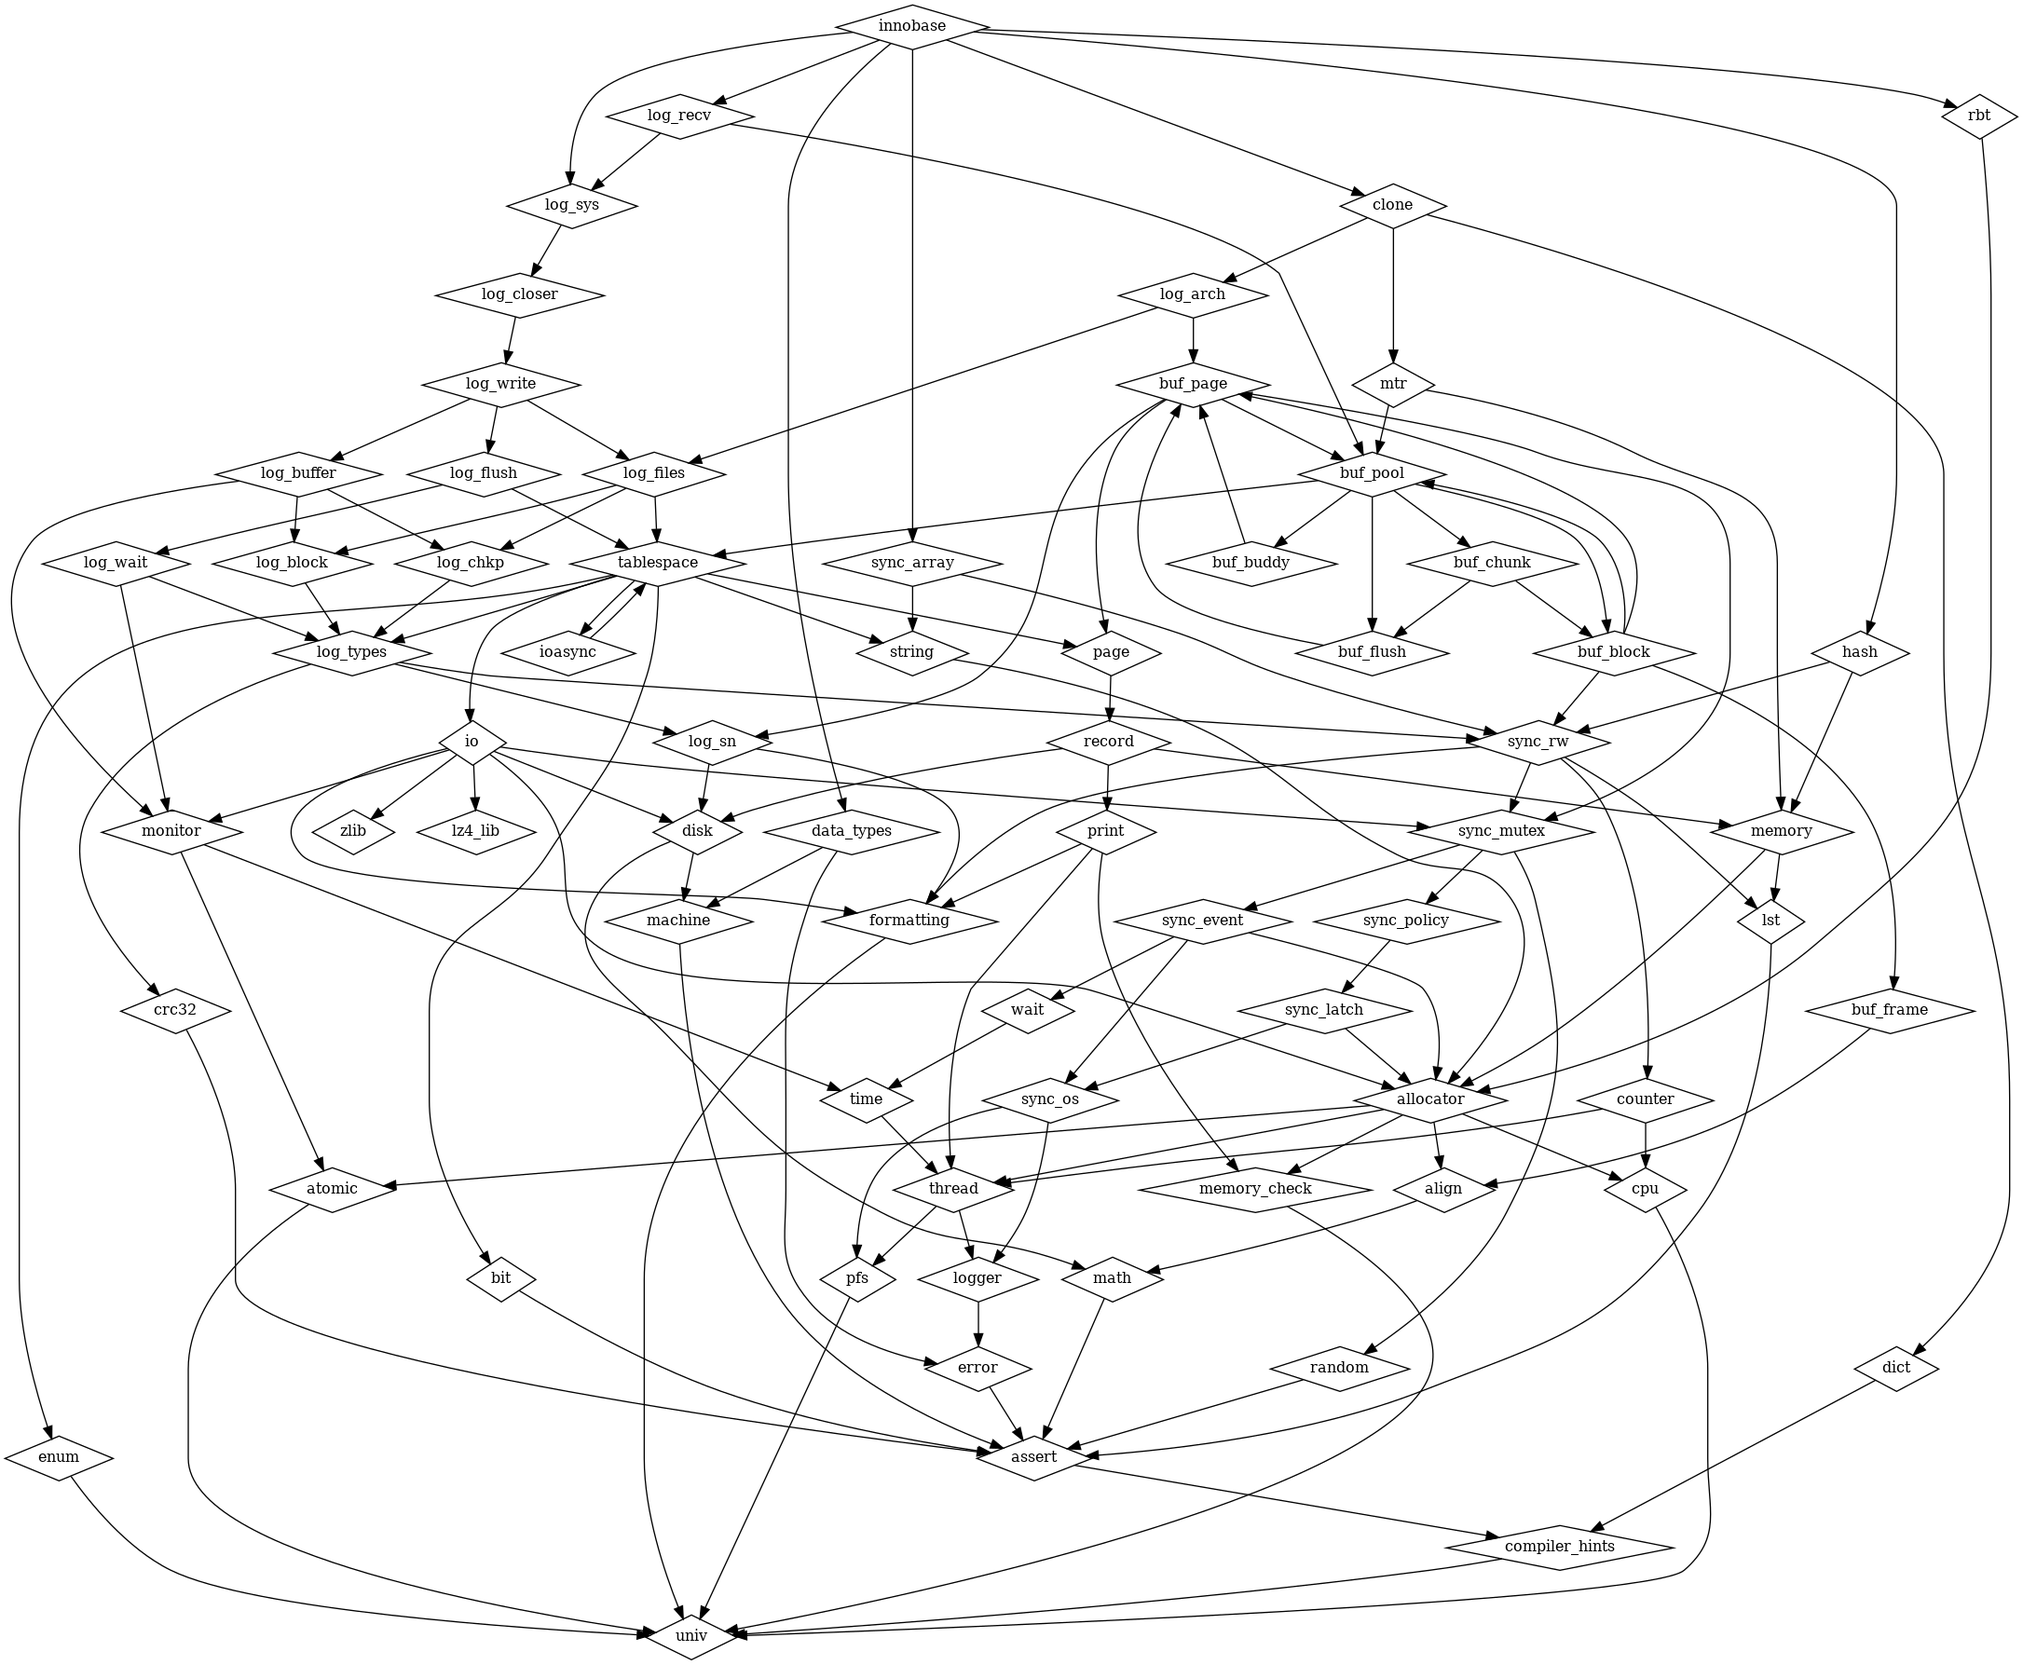
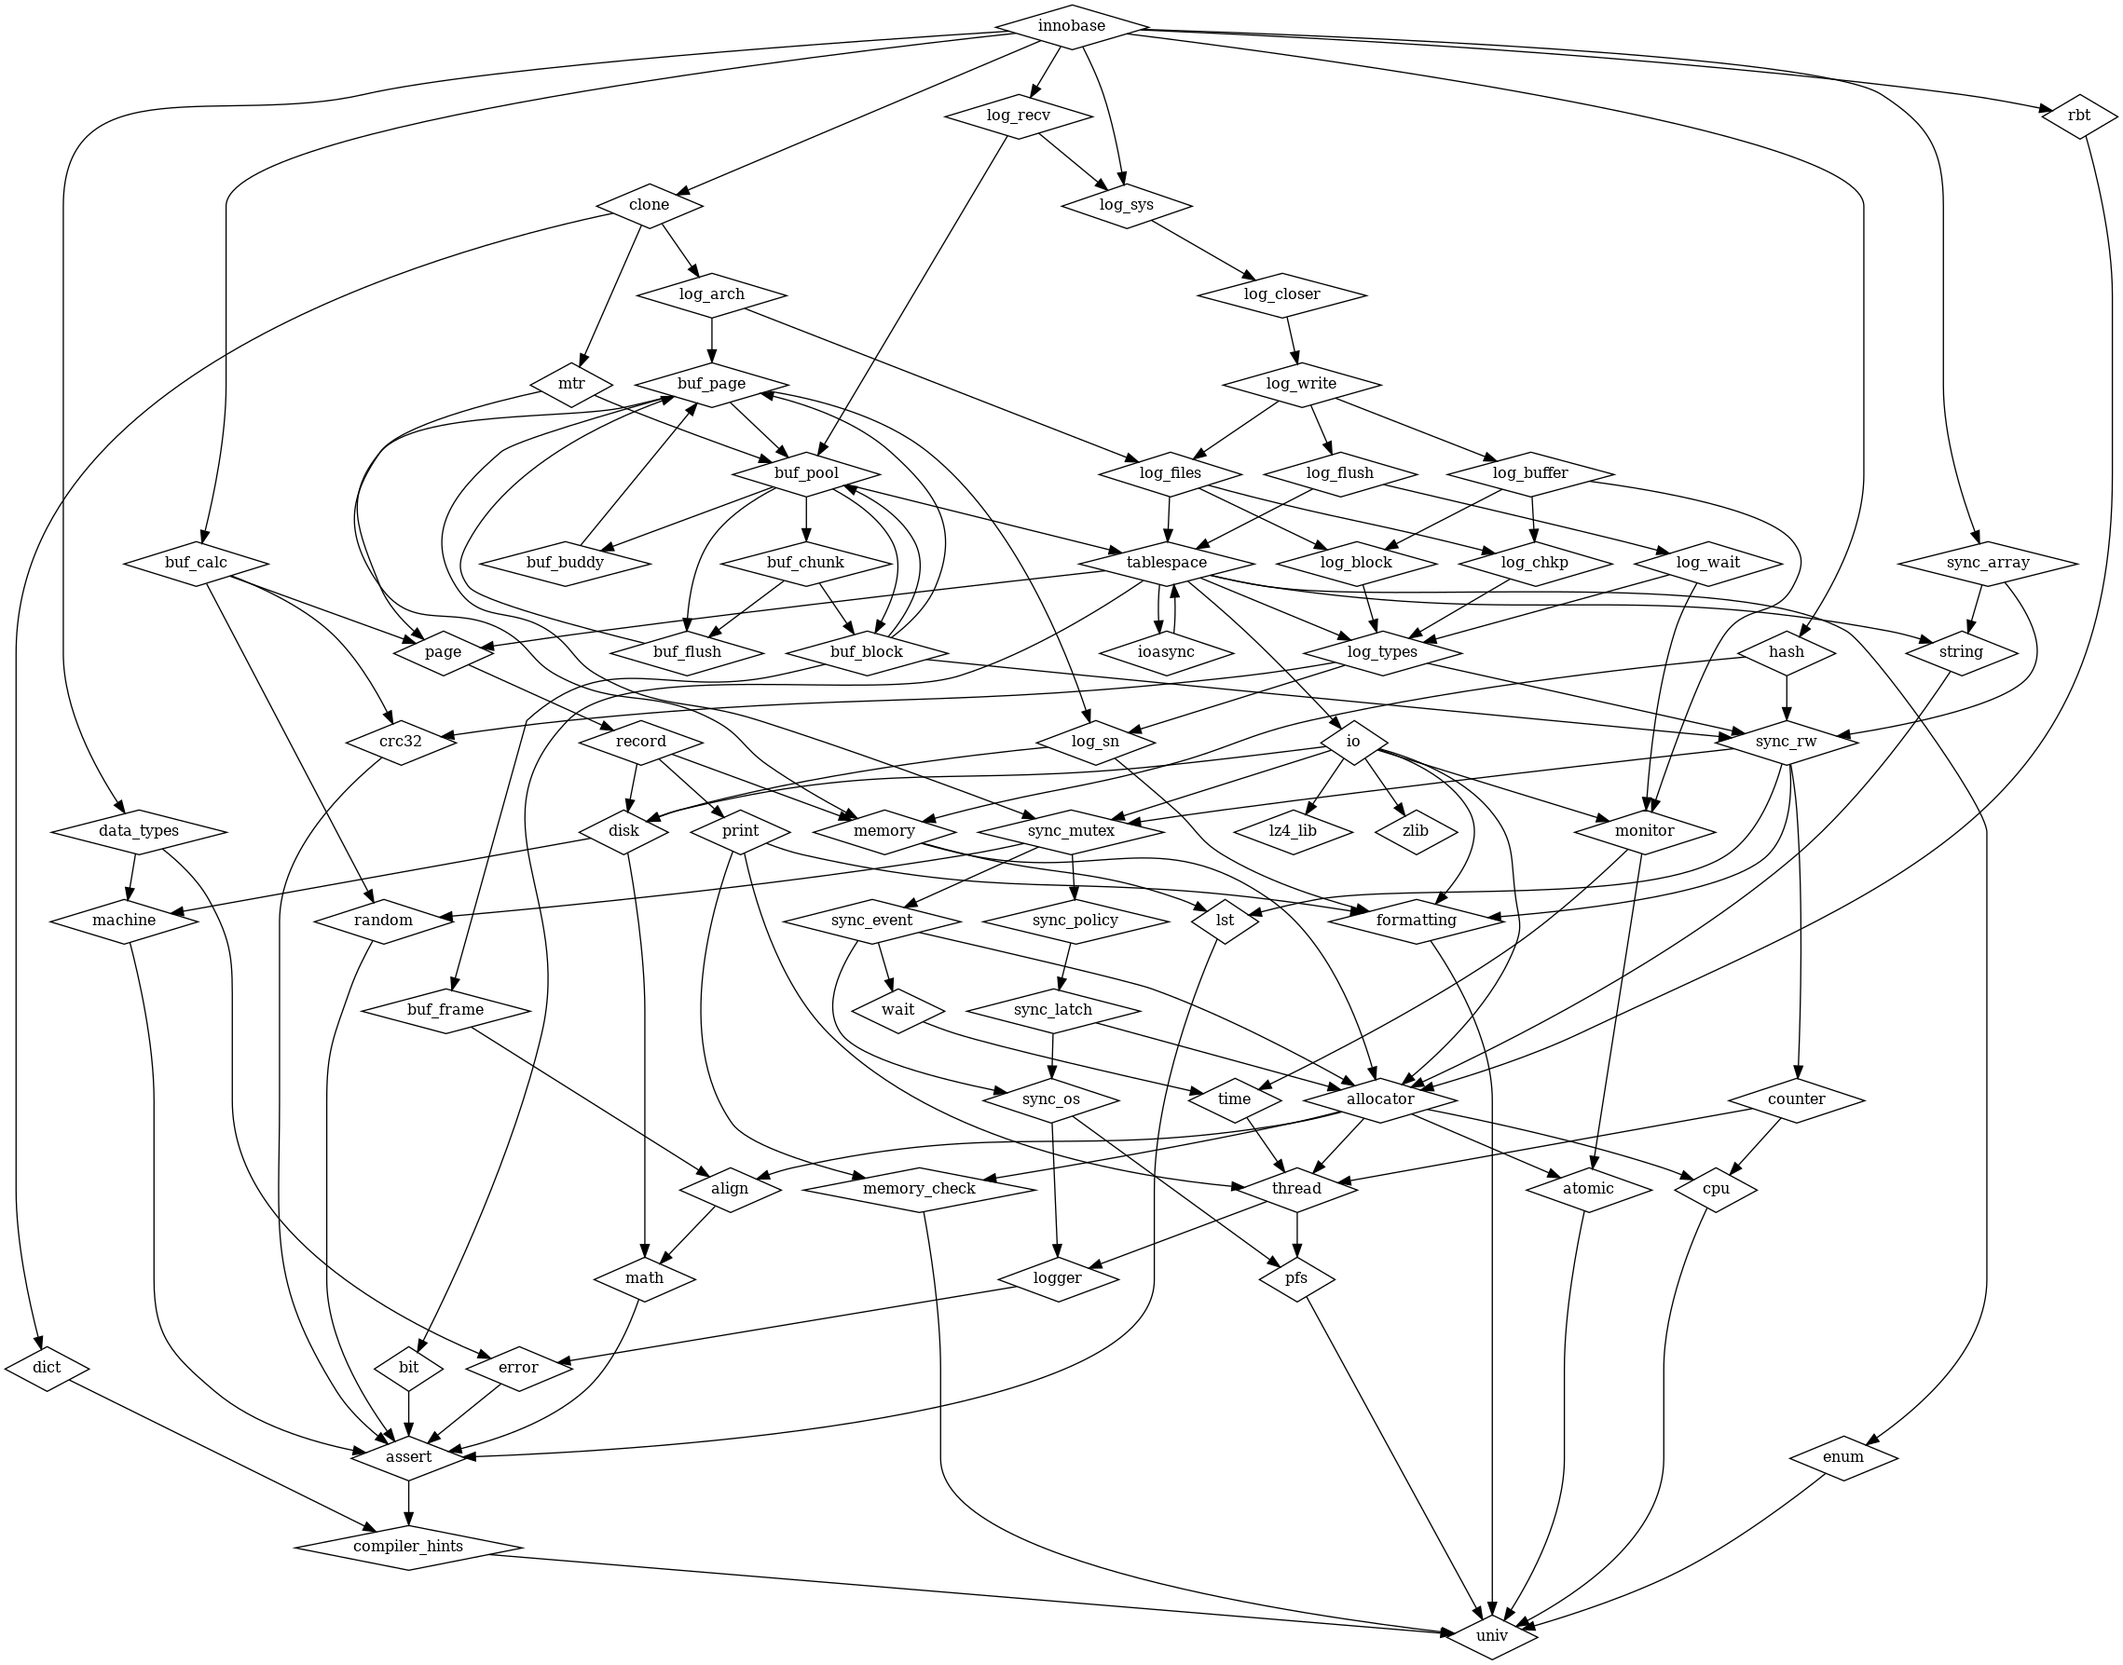
Create buf_calc library

diff --git a/storage/innobase/buf/checksum.cc b/storage/innobase/buf/checksum.cc
@@ -52,90 +52,14 @@ this program; if not, write to the Free Software Foundation, Inc.,
 
 #include "log0log.h"
 
-/** the macro MYSQL_SYSVAR_ENUM() requires "long unsigned int" and if we
-use srv_checksum_algorithm_t here then we get a compiler error:
-ha_innodb.cc:12251: error: cannot convert 'srv_checksum_algorithm_t*' to
-  'long unsigned int*' in initialization */
-ulong srv_checksum_algorithm = SRV_CHECKSUM_ALGORITHM_INNODB;
+
 
 /** set if we have found pages matching legacy big endian checksum */
 static bool legacy_big_endian_checksum = false;
 
-/** Calculates the CRC32 checksum of a page. The value is stored to the page
-when it is written to a file and also checked for a match when reading from
-the file. When reading we allow both normal CRC32 and CRC-legacy-big-endian
-variants. Note that we must be careful to calculate the same value on 32-bit
-and 64-bit architectures.
-@param[in]	page			buffer page (UNIV_PAGE_SIZE bytes)
-@param[in]	use_legacy_big_endian	if true then use big endian
-byteorder when converting byte strings to integers
-@return checksum */
-uint32_t buf_calc_page_crc32(const byte *page,
-                             bool use_legacy_big_endian /* = false */) {
-  /* Since the field FIL_PAGE_FILE_FLUSH_LSN, and in versions <= 4.1.x
-  FIL_PAGE_ARCH_LOG_NO_OR_SPACE_ID, are written outside the buffer pool
-  to the first pages of data files, we have to skip them in the page
-  checksum calculation.
-  We must also skip the field FIL_PAGE_SPACE_OR_CHKSUM where the
-  checksum is stored, and also the last 8 bytes of page because
-  there we store the old formula checksum. */
 
-  ut_crc32_func_t crc32_func =
-      use_legacy_big_endian ? ut_crc32_legacy_big_endian : ut_crc32;
 
-  const uint32_t c1 = crc32_func(page + FIL_PAGE_OFFSET,
-                                 FIL_PAGE_FILE_FLUSH_LSN - FIL_PAGE_OFFSET);
 
-  const uint32_t c2 =
-      crc32_func(page + FIL_PAGE_DATA,
-                 UNIV_PAGE_SIZE - FIL_PAGE_DATA - FIL_PAGE_END_LSN_OLD_CHKSUM);
-
-  return (c1 ^ c2);
-}
-
-/** Calculates a page checksum which is stored to the page when it is written
- to a file. Note that we must be careful to calculate the same value on
- 32-bit and 64-bit architectures.
- @return checksum */
-ulint buf_calc_page_new_checksum(const byte *page) /*!< in: buffer page */
-{
-  ulint checksum;
-
-  /* Since the field FIL_PAGE_FILE_FLUSH_LSN, and in versions <= 4.1.x
-  FIL_PAGE_ARCH_LOG_NO_OR_SPACE_ID, are written outside the buffer pool
-  to the first pages of data files, we have to skip them in the page
-  checksum calculation.
-  We must also skip the field FIL_PAGE_SPACE_OR_CHKSUM where the
-  checksum is stored, and also the last 8 bytes of page because
-  there we store the old formula checksum. */
-
-  checksum =
-      ut_fold_binary(page + FIL_PAGE_OFFSET,
-                     FIL_PAGE_FILE_FLUSH_LSN - FIL_PAGE_OFFSET) +
-      ut_fold_binary(page + FIL_PAGE_DATA, UNIV_PAGE_SIZE - FIL_PAGE_DATA -
-                                               FIL_PAGE_END_LSN_OLD_CHKSUM);
-  checksum = checksum & 0xFFFFFFFFUL;
-
-  return (checksum);
-}
-
-/** In versions < 4.0.14 and < 4.1.1 there was a bug that the checksum only
- looked at the first few bytes of the page. This calculates that old
- checksum.
- NOTE: we must first store the new formula checksum to
- FIL_PAGE_SPACE_OR_CHKSUM before calculating and storing this old checksum
- because this takes that field as an input!
- @return checksum */
-ulint buf_calc_page_old_checksum(const byte *page) /*!< in: buffer page */
-{
-  ulint checksum;
-
-  checksum = ut_fold_binary(page, FIL_PAGE_FILE_FLUSH_LSN);
-
-  checksum = checksum & 0xFFFFFFFFUL;
-
-  return (checksum);
-}
 
 /** Return a printable string describing the checksum algorithm.
  @return algorithm name */

diff --git a/storage/innobase/include/buf0checksum.h b/storage/innobase/include/buf0checksum.h
@@ -34,45 +34,24 @@ this program; if not, write to the Free Software Foundation, Inc.,
 #define buf0checksum_h
 
 #include <innodb/univ/univ.h>
-#include <innodb/buf_pool/srv_checksum_algorithm_t.h>
+#include <innodb/buf_calc/srv_checksum_algorithm_t.h>
 #include <innodb/page/page_id_t.h>
 
 
 #include <innodb/disk/page_size_t.h>
 
-/** Calculates the CRC32 checksum of a page. The value is stored to the page
-when it is written to a file and also checked for a match when reading from
-the file. When reading we allow both normal CRC32 and CRC-legacy-big-endian
-variants. Note that we must be careful to calculate the same value on 32-bit
-and 64-bit architectures.
-@param[in]	page			buffer page (UNIV_PAGE_SIZE bytes)
-@param[in]	use_legacy_big_endian	if true then use big endian
-byteorder when converting byte strings to integers
-@return checksum */
-uint32_t buf_calc_page_crc32(const byte *page,
-                             bool use_legacy_big_endian = false);
+#include <innodb/buf_calc/buf_calc_page_crc32.h>
+#include <innodb/buf_calc/buf_calc_page_new_checksum.h>
+#include <innodb/buf_calc/buf_calc_page_old_checksum.h>
 
-/** Calculates a page checksum which is stored to the page when it is written
- to a file. Note that we must be careful to calculate the same value on
- 32-bit and 64-bit architectures.
- @return checksum */
-ulint buf_calc_page_new_checksum(const byte *page); /*!< in: buffer page */
 
-/** In versions < 4.0.14 and < 4.1.1 there was a bug that the checksum only
- looked at the first few bytes of the page. This calculates that old
- checksum.
- NOTE: we must first store the new formula checksum to
- FIL_PAGE_SPACE_OR_CHKSUM before calculating and storing this old checksum
- because this takes that field as an input!
- @return checksum */
-ulint buf_calc_page_old_checksum(const byte *page); /*!< in: buffer page */
 
 /** Return a printable string describing the checksum algorithm.
  @return algorithm name */
 const char *buf_checksum_algorithm_name(
     srv_checksum_algorithm_t algo); /*!< in: algorithm */
 
-extern ulong srv_checksum_algorithm;
+
 
 /** Class to print checksums to log file. */
 class BlockReporter {

diff --git a/storage/innobase/libs/buf_calc/src/buf_calc_page_crc32.cpp b/storage/innobase/libs/buf_calc/src/buf_calc_page_crc32.cpp
@@ -1,0 +1,36 @@
+#include <innodb/buf_calc/buf_calc_page_crc32.h>
+
+#include <innodb/crc32/crc32.h>
+#include <innodb/disk/flags.h>
+
+/** Calculates the CRC32 checksum of a page. The value is stored to the page
+when it is written to a file and also checked for a match when reading from
+the file. When reading we allow both normal CRC32 and CRC-legacy-big-endian
+variants. Note that we must be careful to calculate the same value on 32-bit
+and 64-bit architectures.
+@param[in]	page			buffer page (UNIV_PAGE_SIZE bytes)
+@param[in]	use_legacy_big_endian	if true then use big endian
+byteorder when converting byte strings to integers
+@return checksum */
+uint32_t buf_calc_page_crc32(const byte *page,
+                             bool use_legacy_big_endian /* = false */) {
+  /* Since the field FIL_PAGE_FILE_FLUSH_LSN, and in versions <= 4.1.x
+  FIL_PAGE_ARCH_LOG_NO_OR_SPACE_ID, are written outside the buffer pool
+  to the first pages of data files, we have to skip them in the page
+  checksum calculation.
+  We must also skip the field FIL_PAGE_SPACE_OR_CHKSUM where the
+  checksum is stored, and also the last 8 bytes of page because
+  there we store the old formula checksum. */
+
+  ut_crc32_func_t crc32_func =
+      use_legacy_big_endian ? ut_crc32_legacy_big_endian : ut_crc32;
+
+  const uint32_t c1 = crc32_func(page + FIL_PAGE_OFFSET,
+                                 FIL_PAGE_FILE_FLUSH_LSN - FIL_PAGE_OFFSET);
+
+  const uint32_t c2 =
+      crc32_func(page + FIL_PAGE_DATA,
+                 UNIV_PAGE_SIZE - FIL_PAGE_DATA - FIL_PAGE_END_LSN_OLD_CHKSUM);
+
+  return (c1 ^ c2);
+}

diff --git a/storage/innobase/libs/buf_calc/src/buf_calc_page_new_checksum.cpp b/storage/innobase/libs/buf_calc/src/buf_calc_page_new_checksum.cpp
@@ -1,0 +1,30 @@
+#include <innodb/buf_calc/buf_calc_page_new_checksum.h>
+
+#include <innodb/random/random.h>
+#include <innodb/disk/flags.h>
+
+/** Calculates a page checksum which is stored to the page when it is written
+ to a file. Note that we must be careful to calculate the same value on
+ 32-bit and 64-bit architectures.
+ @return checksum */
+ulint buf_calc_page_new_checksum(const byte *page) /*!< in: buffer page */
+{
+  ulint checksum;
+
+  /* Since the field FIL_PAGE_FILE_FLUSH_LSN, and in versions <= 4.1.x
+  FIL_PAGE_ARCH_LOG_NO_OR_SPACE_ID, are written outside the buffer pool
+  to the first pages of data files, we have to skip them in the page
+  checksum calculation.
+  We must also skip the field FIL_PAGE_SPACE_OR_CHKSUM where the
+  checksum is stored, and also the last 8 bytes of page because
+  there we store the old formula checksum. */
+
+  checksum =
+      ut_fold_binary(page + FIL_PAGE_OFFSET,
+                     FIL_PAGE_FILE_FLUSH_LSN - FIL_PAGE_OFFSET) +
+      ut_fold_binary(page + FIL_PAGE_DATA, UNIV_PAGE_SIZE - FIL_PAGE_DATA -
+                                               FIL_PAGE_END_LSN_OLD_CHKSUM);
+  checksum = checksum & 0xFFFFFFFFUL;
+
+  return (checksum);
+}

diff --git a/storage/innobase/libs/buf_calc/src/buf_calc_page_old_checksum.cpp b/storage/innobase/libs/buf_calc/src/buf_calc_page_old_checksum.cpp
@@ -1,0 +1,22 @@
+#include <innodb/buf_calc/buf_calc_page_old_checksum.h>
+
+#include <innodb/random/random.h>
+#include <innodb/disk/flags.h>
+
+/** In versions < 4.0.14 and < 4.1.1 there was a bug that the checksum only
+ looked at the first few bytes of the page. This calculates that old
+ checksum.
+ NOTE: we must first store the new formula checksum to
+ FIL_PAGE_SPACE_OR_CHKSUM before calculating and storing this old checksum
+ because this takes that field as an input!
+ @return checksum */
+ulint buf_calc_page_old_checksum(const byte *page) /*!< in: buffer page */
+{
+  ulint checksum;
+
+  checksum = ut_fold_binary(page, FIL_PAGE_FILE_FLUSH_LSN);
+
+  checksum = checksum & 0xFFFFFFFFUL;
+
+  return (checksum);
+}

diff --git a/storage/innobase/libs/buf_calc/include/innodb/buf_calc/buf_calc_page_crc32.h b/storage/innobase/libs/buf_calc/include/innodb/buf_calc/buf_calc_page_crc32.h
@@ -1,0 +1,15 @@
+#pragma once
+
+#include <innodb/univ/univ.h>
+
+/** Calculates the CRC32 checksum of a page. The value is stored to the page
+when it is written to a file and also checked for a match when reading from
+the file. When reading we allow both normal CRC32 and CRC-legacy-big-endian
+variants. Note that we must be careful to calculate the same value on 32-bit
+and 64-bit architectures.
+@param[in]	page			buffer page (UNIV_PAGE_SIZE bytes)
+@param[in]	use_legacy_big_endian	if true then use big endian
+byteorder when converting byte strings to integers
+@return checksum */
+uint32_t buf_calc_page_crc32(const byte *page,
+                             bool use_legacy_big_endian = false);

diff --git a/storage/innobase/include/srv0srv.h b/storage/innobase/include/srv0srv.h
@@ -50,6 +50,7 @@ this program; if not, write to the Free Software Foundation, Inc.,
 
 #include <innodb/univ/univ.h>
 
+#include <innodb/buf_calc/srv_checksum_algorithm.h>
 #include <innodb/log_chkp/srv_log_checkpoint_every.h>
 #include <innodb/clone/srv_undo_log_encrypt.h>
 #include <innodb/clone/srv_redo_log_encrypt.h>
@@ -411,7 +412,7 @@ extern bool srv_stats_include_delete_marked;
 
 extern ibool srv_use_doublewrite_buf;
 extern ulong srv_doublewrite_batch_size;
-extern ulong srv_checksum_algorithm;
+
 
 extern double srv_max_buf_pool_modified_pct;
 extern ulong srv_max_purge_lag;

diff --git a/storage/innobase/libs/buf_calc/include/innodb/buf_calc/buf_calc_page_old_checksum.h b/storage/innobase/libs/buf_calc/include/innodb/buf_calc/buf_calc_page_old_checksum.h
@@ -1,0 +1,12 @@
+#pragma once
+
+#include <innodb/univ/univ.h>
+
+/** In versions < 4.0.14 and < 4.1.1 there was a bug that the checksum only
+ looked at the first few bytes of the page. This calculates that old
+ checksum.
+ NOTE: we must first store the new formula checksum to
+ FIL_PAGE_SPACE_OR_CHKSUM before calculating and storing this old checksum
+ because this takes that field as an input!
+ @return checksum */
+ulint buf_calc_page_old_checksum(const byte *page); /*!< in: buffer page */

diff --git a/storage/innobase/libs/buf_calc/src/srv_checksum_algorithm.cpp b/storage/innobase/libs/buf_calc/src/srv_checksum_algorithm.cpp
@@ -1,0 +1,9 @@
+#include <innodb/buf_calc/srv_checksum_algorithm.h>
+
+#include <innodb/buf_calc/srv_checksum_algorithm_t.h>
+
+/** the macro MYSQL_SYSVAR_ENUM() requires "long unsigned int" and if we
+use srv_checksum_algorithm_t here then we get a compiler error:
+ha_innodb.cc:12251: error: cannot convert 'srv_checksum_algorithm_t*' to
+  'long unsigned int*' in initialization */
+ulong srv_checksum_algorithm = SRV_CHECKSUM_ALGORITHM_INNODB;

diff --git a/storage/innobase/libs/buf_calc/include/innodb/buf_calc/buf_calc_page_new_checksum.h b/storage/innobase/libs/buf_calc/include/innodb/buf_calc/buf_calc_page_new_checksum.h
@@ -1,0 +1,10 @@
+#pragma once
+
+#include <innodb/univ/univ.h>
+
+
+/** Calculates a page checksum which is stored to the page when it is written
+ to a file. Note that we must be careful to calculate the same value on
+ 32-bit and 64-bit architectures.
+ @return checksum */
+ulint buf_calc_page_new_checksum(const byte *page); /*!< in: buffer page */

diff --git a/storage/innobase/libs/buf_calc/tests/main.cpp b/storage/innobase/libs/buf_calc/tests/main.cpp
@@ -1,0 +1,9 @@
+#include <gtest/gtest.h>
+
+int main( int argc, char **argv ) 
+{
+    ::testing::InitGoogleTest(&argc, argv);
+    return RUN_ALL_TESTS();
+}
+
+

diff --git a/storage/innobase/libs/buf_calc/tests/base.cpp b/storage/innobase/libs/buf_calc/tests/base.cpp
@@ -1,0 +1,12 @@
+#include <gtest/gtest.h>
+// #include <innodb/buf_calc/buf_calc.h>
+
+
+//
+//
+TEST( buf_calc, constructor )
+{
+
+}
+
+
